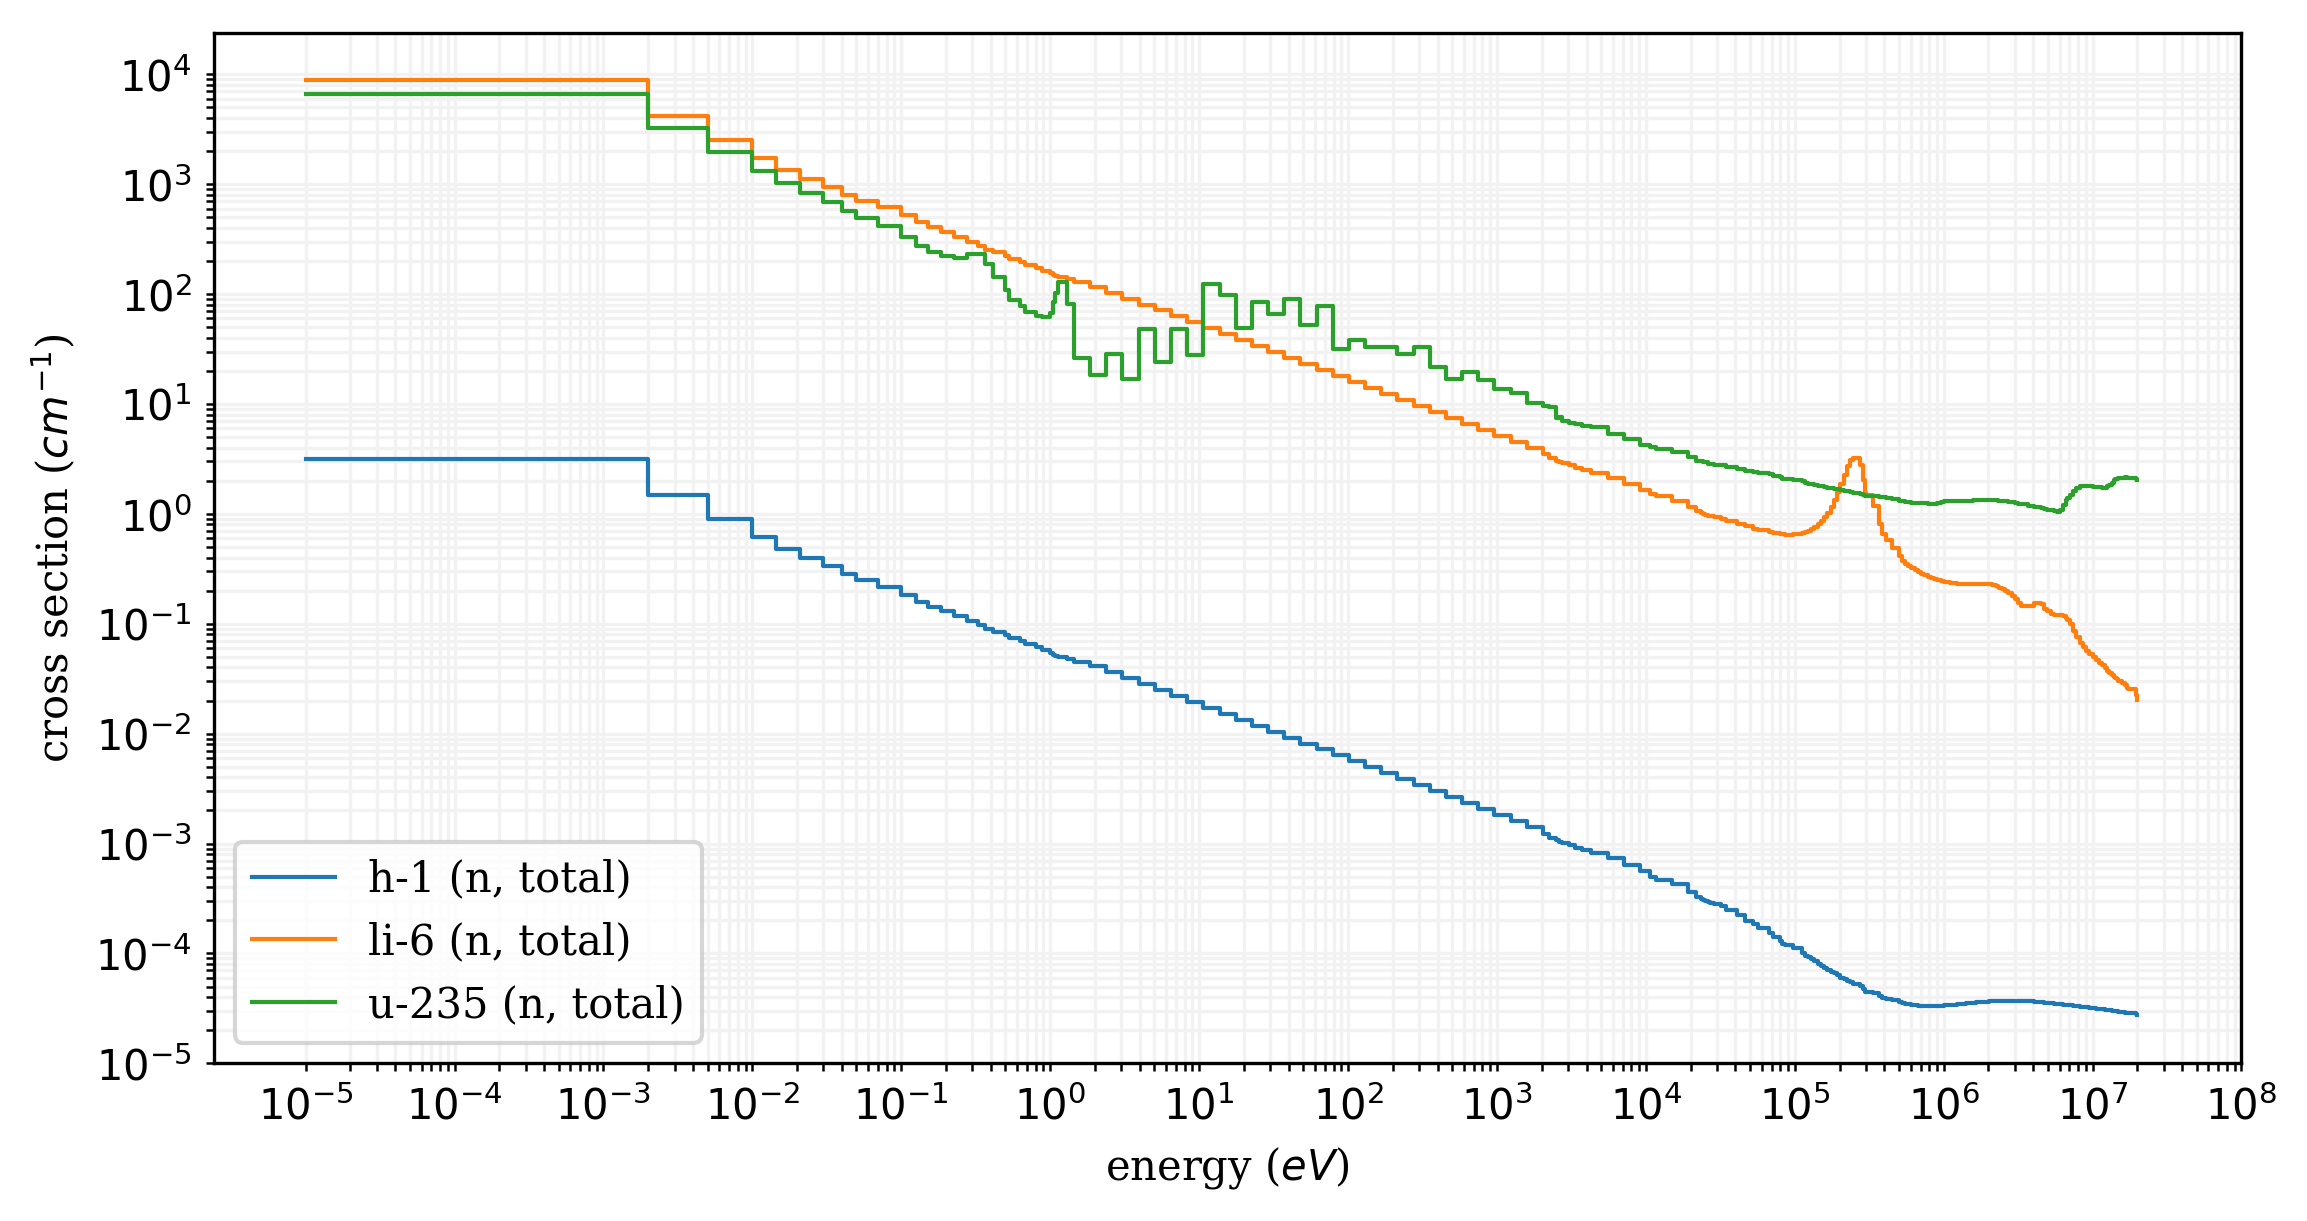
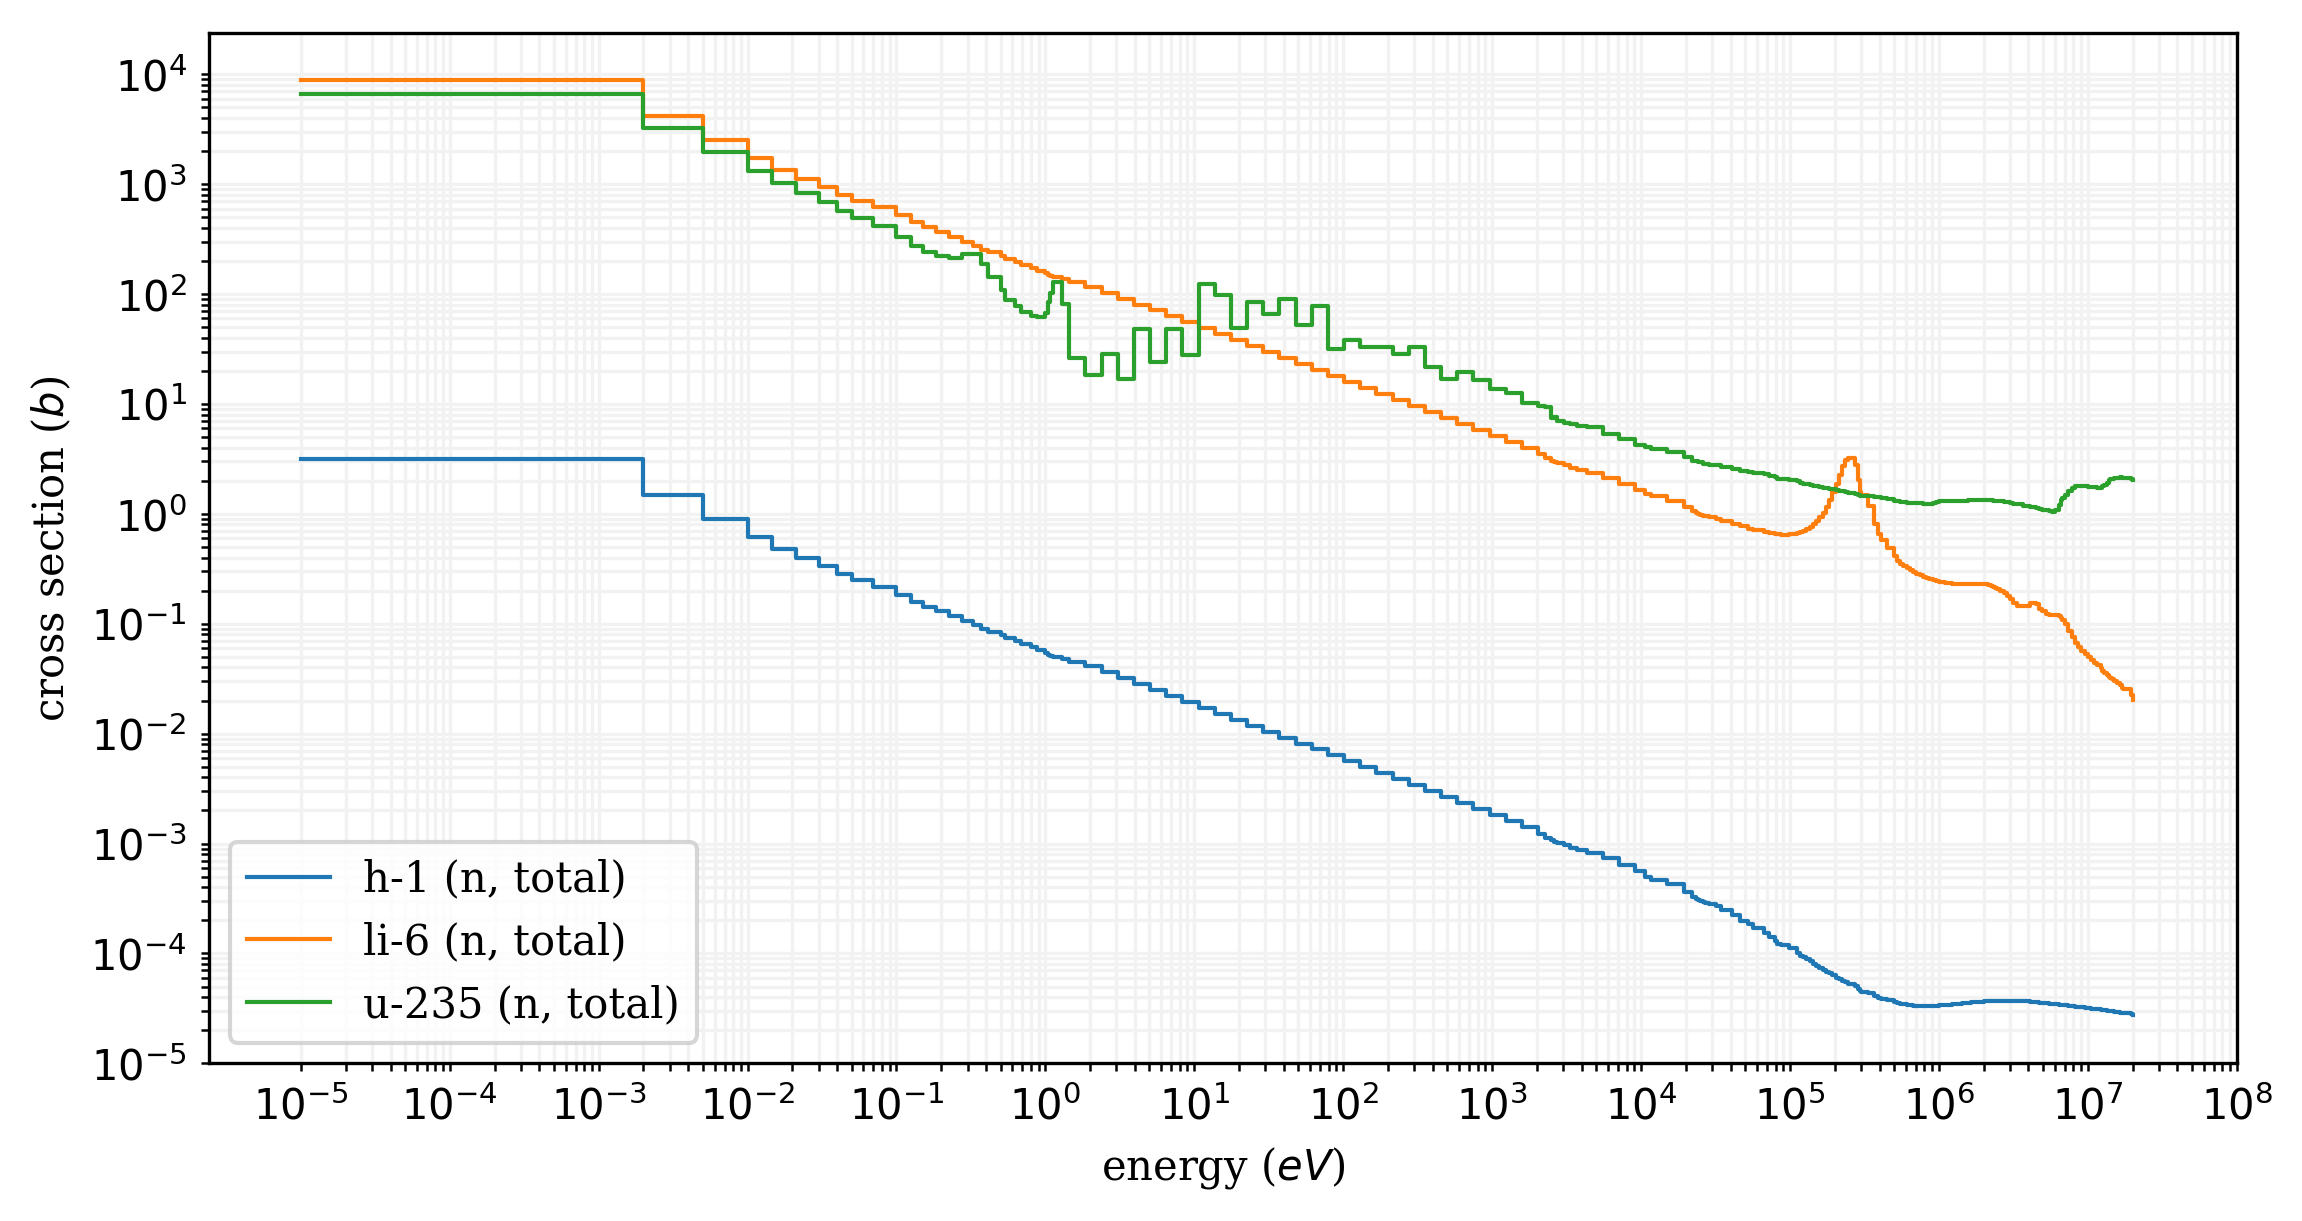
added SCALE reader

diff --git a/SCALE/SCALE.py b/SCALE/SCALE.py
@@ -19,6 +19,8 @@ iso = 1001
 values = book.get_mt(iso, [0])
 iso = 3006
 values.append(book.get_mt(iso, [0])[0])
+iso = 2065
+values.append(book.get_mt(iso, [0])[0])
 iso = 92235
 values.append(book.get_mt(iso, [0])[0])
 
@@ -28,7 +30,7 @@ for value in values:
     for v in value:
         new[-1].append(abs(v))
 values = new        
-titles = ['h-1 (n, total)', 'li-6 (n, total)', 'u-235 (n, total)']
+titles = ['h-1 (n, total)', 'li-6 (n, total)', 'fe-56 (n, total)', 'u-235 (n, total)']
 ## ========================================= 
 ##            actualy plot it 
 xs_plot(energy, values, titles)

diff --git a/SCALE/xs_plot.py b/SCALE/xs_plot.py
@@ -28,7 +28,7 @@ def xs_plot(energy, values, titles=[]):
     if (n>1):
         ax.legend(loc='lower left')
     xlabel = ax.set_xlabel('energy ($eV$)')
-    ax.set_ylabel('cross section ($cm^{-1}$)')
+    ax.set_ylabel('cross section ($b$)')
 
     ax.loglog()
     
